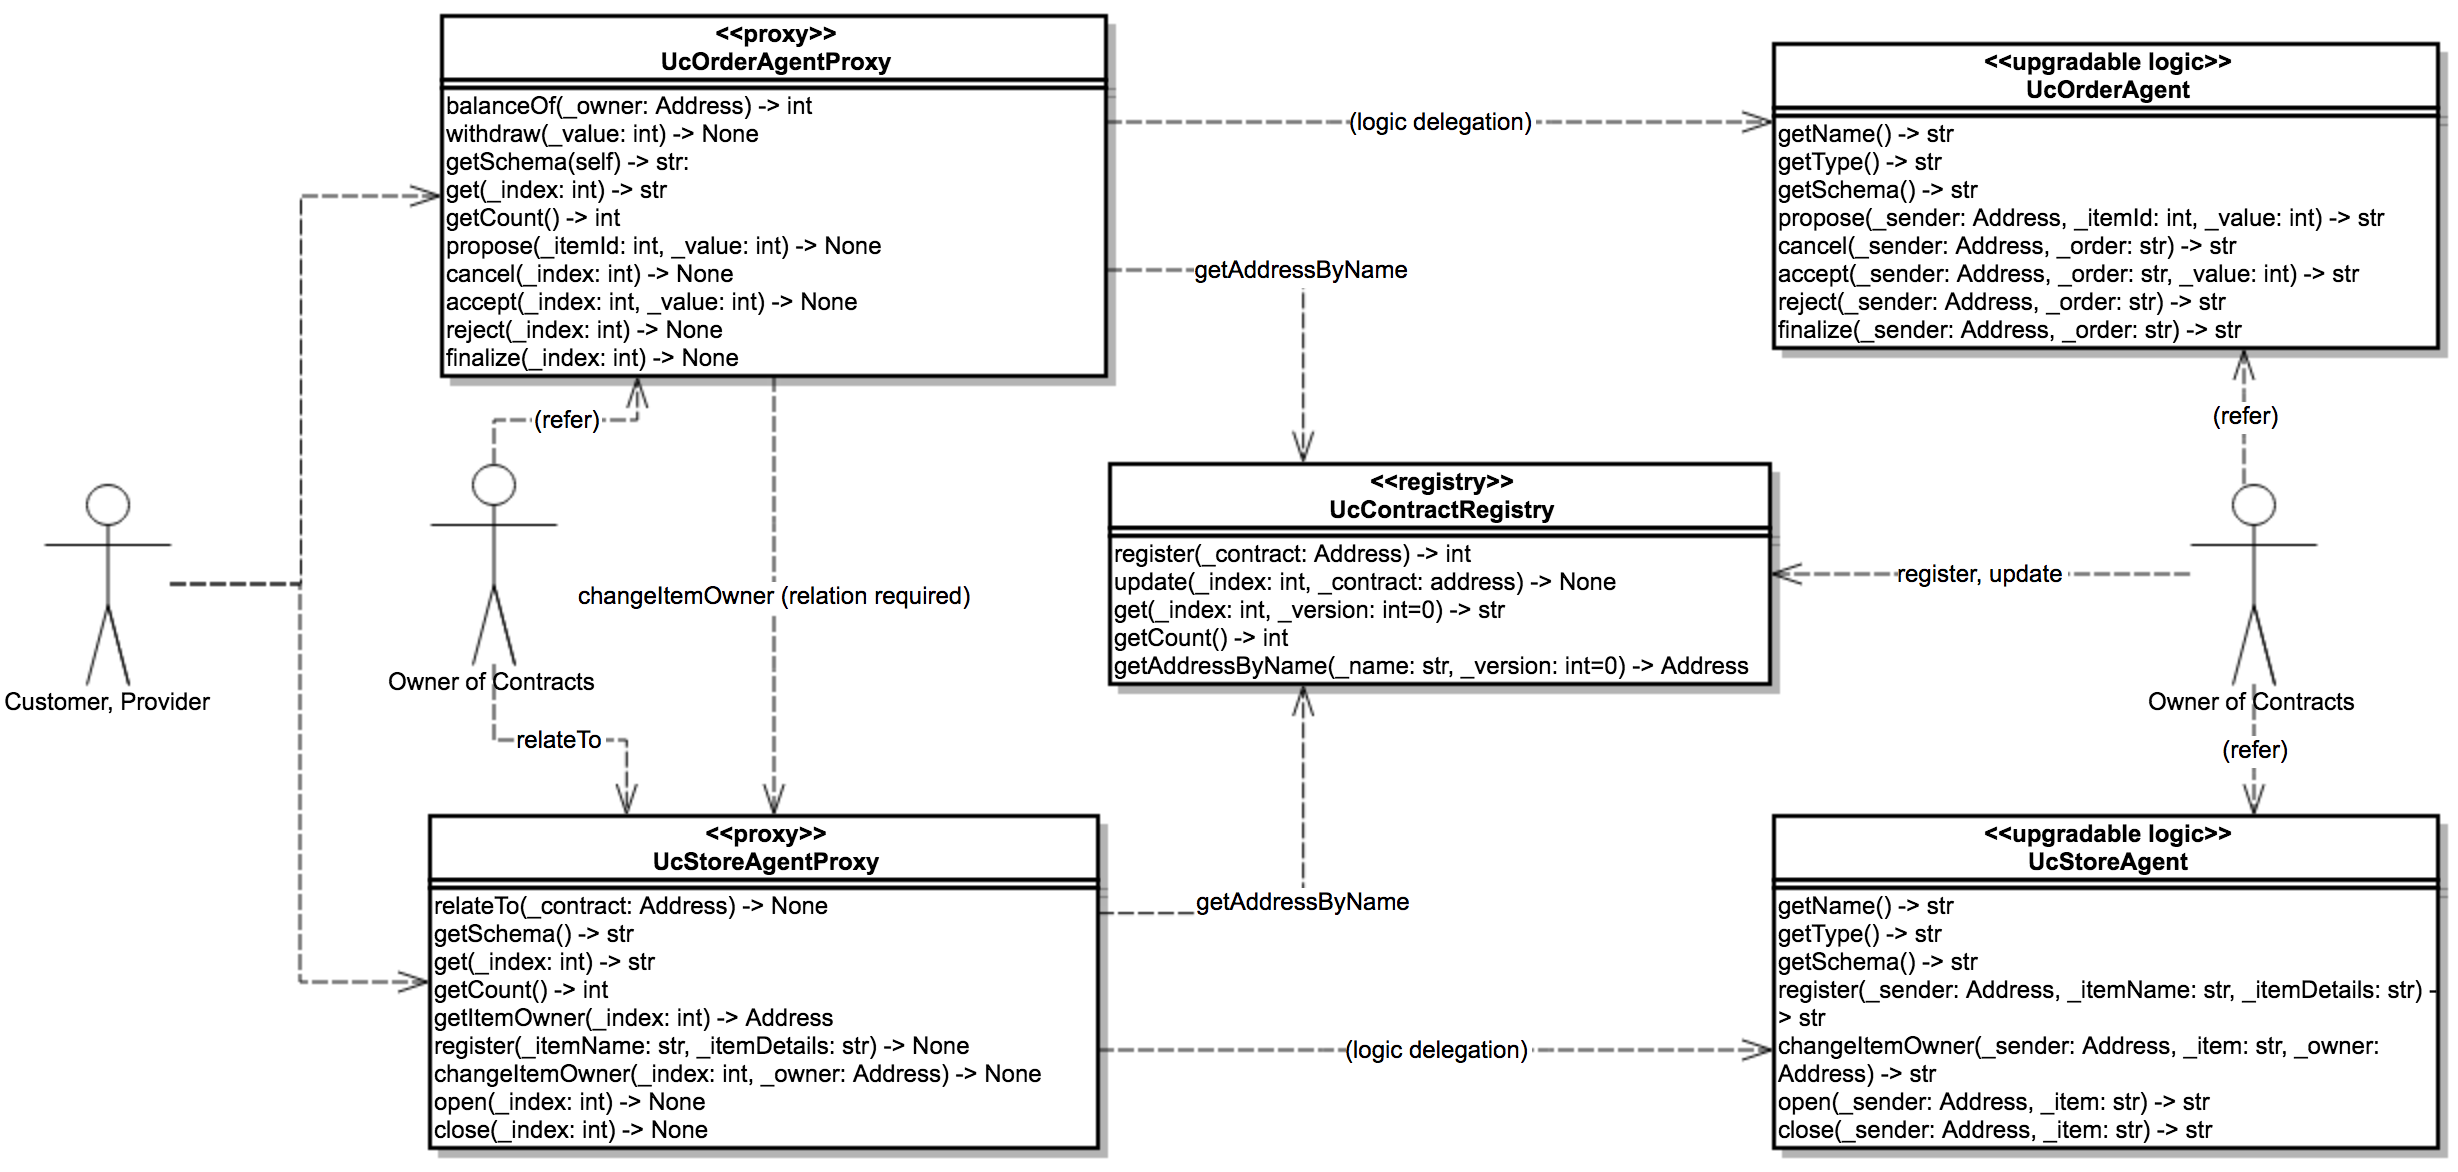
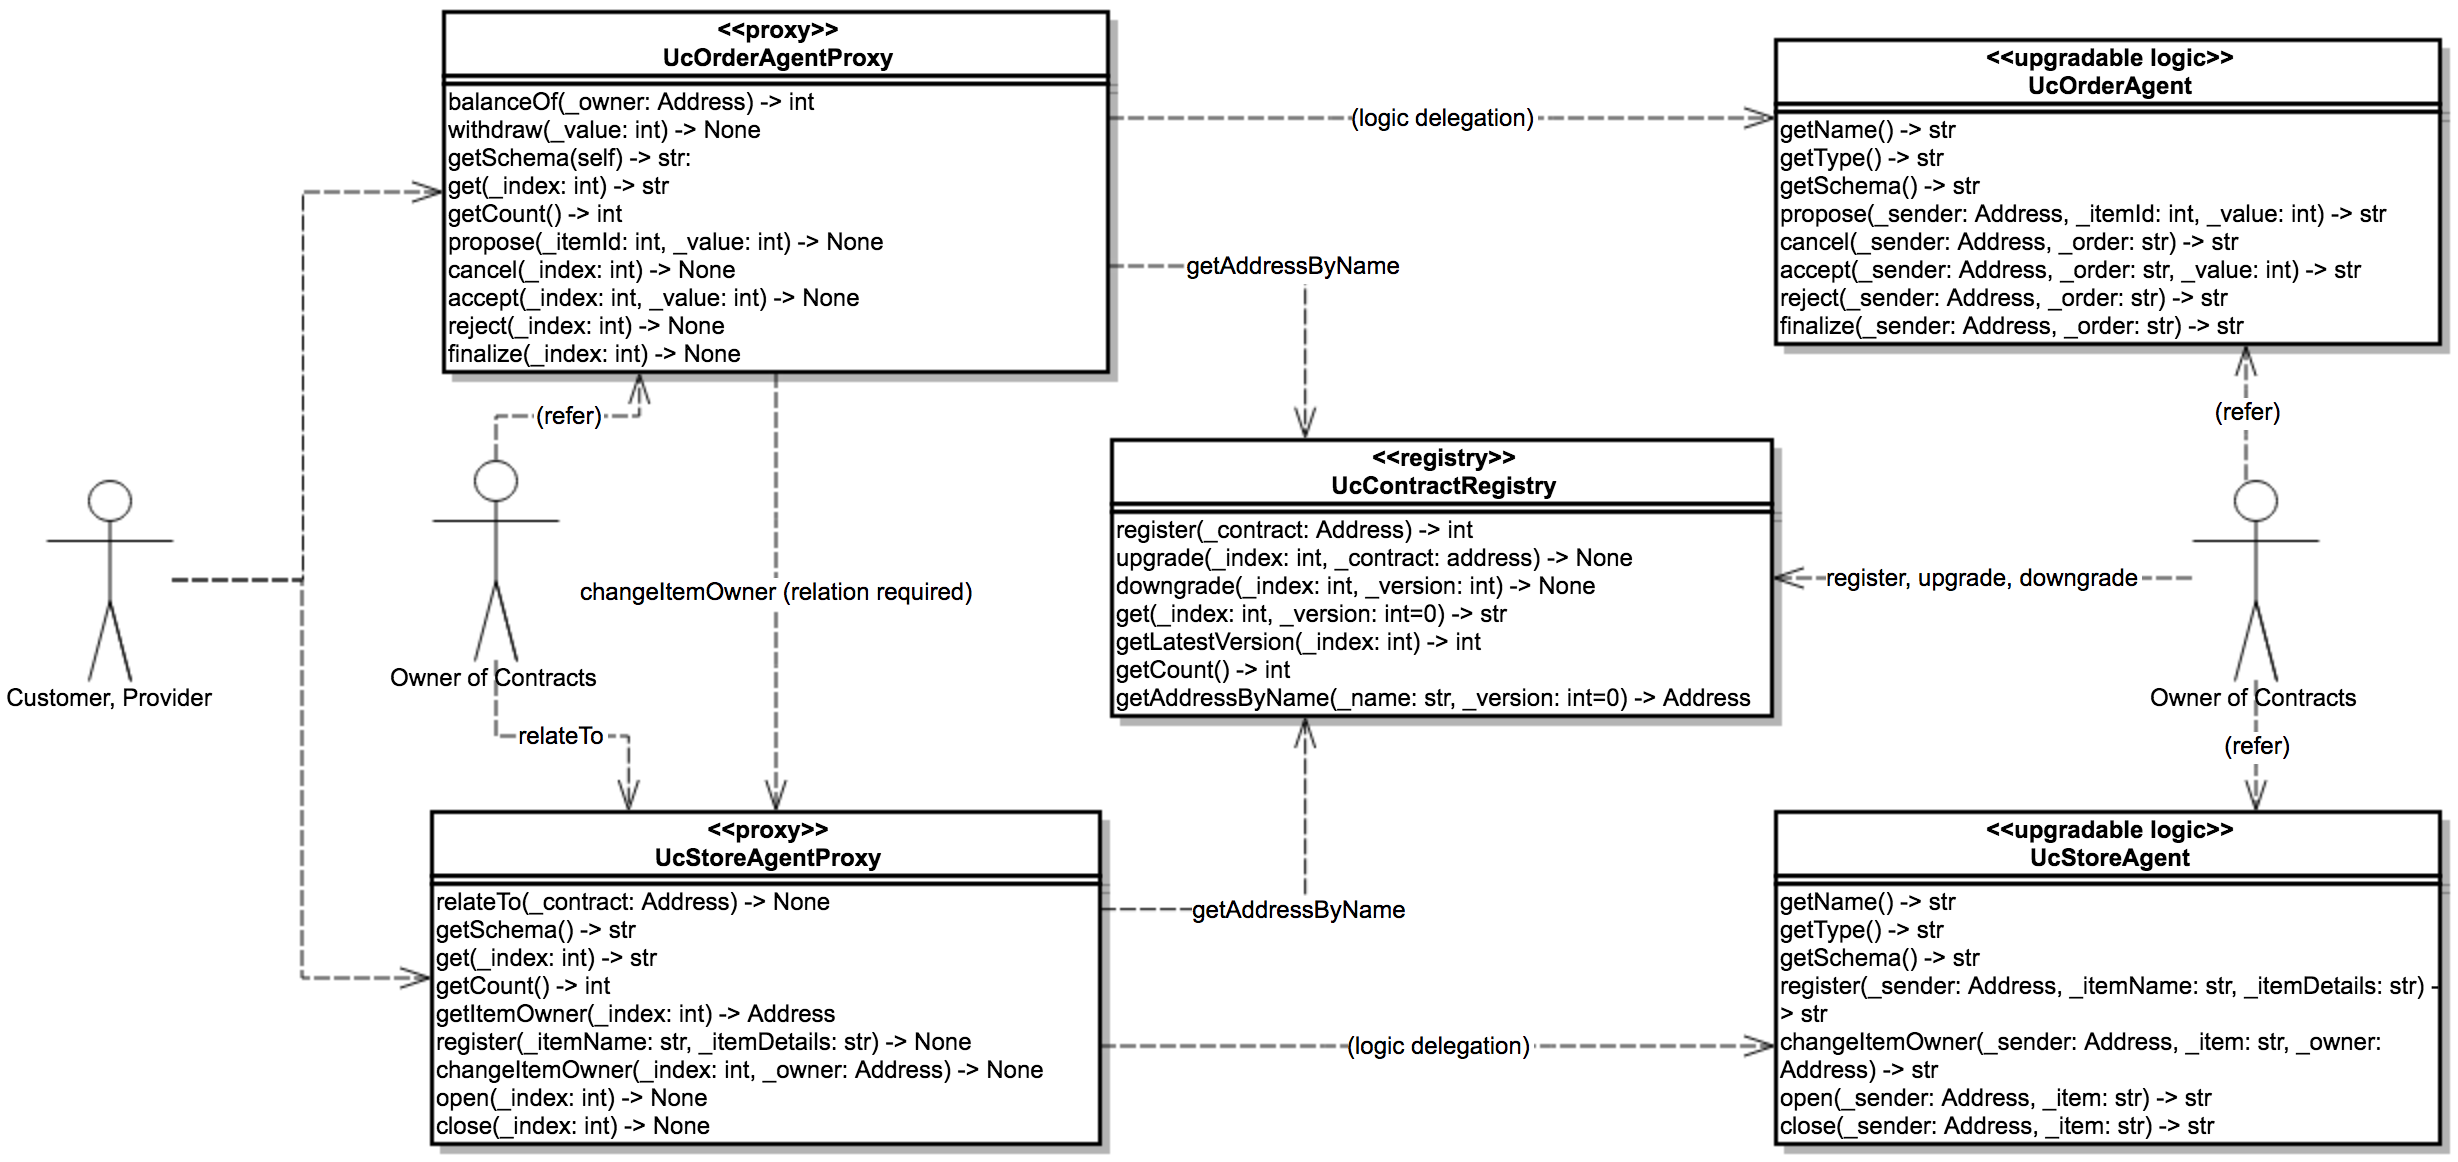
Contract Registry Improvement: both upgrading and downgrading a contract are provided (#3)

diff --git a/tests/test_config.py b/tests/test_config.py
@@ -4,7 +4,7 @@ TEST_KEYSTORE_TEST1 = 'keystore_test1'
 TEST_KEYSTORE_UC = 'keystore_uc'
 TEST_KEYSTORE_PROVIDER = 'keystore_provider'
 TEST_KEYSTORE_CUSTOMER = 'keystore_customer'
[5 lines of base64/hex data omitted]

diff --git a/uc_contract_registry/uc_contract_registry.py b/uc_contract_registry/uc_contract_registry.py
@@ -26,6 +26,9 @@ class UcContractRegistry(IconScoreBase):
     _SCHEMA_ADDRESS = 'address'
     _SCHEMA_UPDATED_AT = 'updatedAt'
 
+    _META_INDEX = 'index'
+    _META_LATEST_VERSION = 'latestVersion'
+
     _KEY_SEPARATOR = '::'
 
     @eventlog(indexed=1)
@@ -33,7 +36,11 @@ class UcContractRegistry(IconScoreBase):
         pass
 
     @eventlog(indexed=1)
-    def ContractUpdated(self, _index: int):
+    def ContractUpgraded(self, _index: int):
+        pass
+
+    @eventlog(indexed=1)
+    def ContractDowngraded(self, _index: int):
         pass
 
     def __init__(self, db: IconScoreDatabase) -> None:
@@ -53,7 +60,7 @@ class UcContractRegistry(IconScoreBase):
 
         self._contracts = ArrayDB(self._CONTRACTS, db, value_type=str)
         self._contractsByName = DictDB(self._CONTRACTS_BY_NAME, db, value_type=str)
-        self._contractsByNameVersion = DictDB(self._CONTRACTS_BY_NAME_VERSION, db, value_type=str)
+        self._contractsByNameVersion = DictDB(self._CONTRACTS_BY_NAME_VERSION, db, value_type=str, depth=2)
 
     def on_install(self) -> None:
         super().on_install()
@@ -84,11 +91,25 @@ class UcContractRegistry(IconScoreBase):
 
         contractObj = json.loads(self._contracts[_index])
         contractName = contractObj[self._SCHEMA_NAME]
-        contract = self._contractsByNameVersion[contractName + self._KEY_SEPARATOR + str(_version)]
+        contract = self._contractsByNameVersion[contractName][str(_version)]
         if not contract:
             self.revert('No such contract version')
 
         return contract
+
+    @external(readonly=True)
+    def getLatestVersion(self, _index: int) -> int:
+        if self._isOutOfRange(_index):
+            self.revert('No such contract')
+
+        contractObj = json.loads(self._contracts[_index])
+        contractName = contractObj[self._SCHEMA_NAME]
+        meta = self._contractsByName[contractName]
+        if not meta:
+            self.revert('No such contract')
+
+        metaObj = json.loads(meta)
+        return metaObj[self._META_LATEST_VERSION]
 
     @external(readonly=True)
     def getAddressByName(self, _contractName: str, _version: int=0) -> Address:
@@ -96,13 +117,15 @@ class UcContractRegistry(IconScoreBase):
             self.revert('Invalid argument')
 
         if _version == 0:
-            indexStr = self._contractsByName[_contractName]
-            if not indexStr:
+            meta = self._contractsByName[_contractName]
+            if not meta:
                 self.revert('No such contract')
 
-            contractObj = json.loads(self._contracts[int(indexStr)])
+            metaObj = json.loads(meta)
+            index = metaObj[self._META_INDEX]
+            contractObj = json.loads(self._contracts[index])
         else:
-            contract = self._contractsByNameVersion[_contractName + self._KEY_SEPARATOR + str(_version)]
+            contract = self._contractsByNameVersion[_contractName][str(_version)]
             if not contract:
                 self.revert('No such contract version')
 
@@ -145,13 +168,17 @@ class UcContractRegistry(IconScoreBase):
 
         index = len(self._contracts)
         self._contracts.put(json.dumps(contractObj))
-        self._contractsByName[contractName] = str(index)
 
-        self._contractsByNameVersion[contractName + self._KEY_SEPARATOR + str(version)] = self._contracts[index]
+        metaObj = {}
+        metaObj[self._META_INDEX] = index
+        metaObj[self._META_LATEST_VERSION] = version
+        self._contractsByName[contractName] = json.dumps(metaObj)
+
+        self._contractsByNameVersion[contractName][str(version)] = self._contracts[index]
         self.ContractRegistered(index)
 
     @external
-    def update(self, _contractAddress: Address) -> None:
+    def upgrade(self, _contractAddress: Address) -> None:
         if not self._isContractOwner():
             self.revert('No permission')
 
@@ -167,11 +194,12 @@ class UcContractRegistry(IconScoreBase):
         if not contractType:
             self.revert('Invalid contract type')
 
-        indexStr = self._contractsByName[contractName]
-        if not indexStr:
+        meta = self._contractsByName[contractName]
+        if not meta:
             self.revert('No such contract')
 
-        index = int(indexStr)
+        metaObj = json.loads(meta)
+        index = metaObj[self._META_INDEX]
         contractObj = json.loads(self._contracts[index])
         if contractObj[self._SCHEMA_TYPE] != contractType:
             self.revert('Mismatch contract type')
@@ -179,7 +207,8 @@ class UcContractRegistry(IconScoreBase):
         if contractObj[self._SCHEMA_ADDRESS] == str(_contractAddress):
             self.revert('Same contract address')
 
-        version = contractObj[self._SCHEMA_VERSION] + 1
+        version = metaObj[self._META_LATEST_VERSION] + 1
+        metaObj[self._META_LATEST_VERSION] = version
 
         contractObj = {}
         contractObj[self._SCHEMA_NAME] = contractName
@@ -189,5 +218,23 @@ class UcContractRegistry(IconScoreBase):
         contractObj[self._SCHEMA_UPDATED_AT] = self.now()
 
         self._contracts[index] = json.dumps(contractObj)
-        self._contractsByNameVersion[contractName + self._KEY_SEPARATOR + str(version)] = self._contracts[index]
-        self.ContractUpdated(index)
+        self._contractsByName[contractName] = json.dumps(metaObj)
+        self._contractsByNameVersion[contractName][str(version)] = self._contracts[index]
+        self.ContractUpgraded(index)
+
+    @external
+    def downgrade(self, _index: int, _version: int) -> None:
+        if self._isOutOfRange(_index):
+            self.revert('No such contract')
+
+        if _version < 0:
+            self.revert('Invalid argument')
+
+        contractObj = json.loads(self._contracts[_index])
+        contractName = contractObj[self._SCHEMA_NAME]
+        contract = self._contractsByNameVersion[contractName][str(_version)]
+        if not contract:
+            self.revert('No such contract version')
+
+        self._contracts[_index] = contract
+        self.ContractDowngraded(_index)

diff --git a/tests/test_uc_contract_registry.py b/tests/test_uc_contract_registry.py
@@ -99,14 +99,14 @@ class TestUcContractRegistry(TestUcBase):
 
         self.__class__._scoreAddrOfStoreAgent2 = self._deploy(installContentBytes, params)
 
-    def test_008_update(self):
+    def test_008_upgrade(self):
         transaction = CallTransactionBuilder()\
             .from_(self._walletOfUc.get_address())\
             .to(self._scoreAddrOfContractRegistry)\
             .step_limit(100000000)\
             .nid(3)\
             .nonce(100)\
-            .method('update')\
+            .method('upgrade')\
             .params({'_contractAddress': self._scoreAddrOfStoreAgent2})\
             .build()
 
@@ -132,7 +132,7 @@ class TestUcContractRegistry(TestUcBase):
         call = CallBuilder().from_(self._walletOfUc.get_address())\
             .to(self._scoreAddrOfContractRegistry)\
             .method('getAddressByName')\
-            .params({'_contractName': 'StoreAgent', '_version': '1'})\
+            .params({'_contractName': 'StoreAgent', '_version': '0x1'})\
             .build()
 
         callResult = self._sendCall(call)
@@ -151,12 +151,53 @@ class TestUcContractRegistry(TestUcBase):
         call = CallBuilder().from_(self._walletOfUc.get_address())\
             .to(self._scoreAddrOfContractRegistry)\
             .method('get')\
-            .params({'_index': '0x0', '_version': '1'})\
+            .params({'_index': '0x0', '_version': '0x1'})\
             .build()
 
         callResult = self._sendCall(call)
         self.assertEqual(json.loads(callResult)['address'], self._scoreAddrOfStoreAgent)
         self.assertEqual(json.loads(callResult)['version'], 1)
+
+    def test_009_downgrade(self):
+        call = CallBuilder().from_(self._walletOfUc.get_address())\
+            .to(self._scoreAddrOfContractRegistry)\
+            .method('getLatestVersion')\
+            .params({'_index': '0x0'})\
+            .build()
+
+        callResult = self._sendCall(call)
+        self.assertEqual(callResult, '0x2')
+
+        transaction = CallTransactionBuilder()\
+            .from_(self._walletOfUc.get_address())\
+            .to(self._scoreAddrOfContractRegistry)\
+            .step_limit(100000000)\
+            .nid(3)\
+            .nonce(100)\
+            .method('downgrade')\
+            .params({'_index': '0x0', '_version': '0x1'})\
+            .build()
+
+        txResult = self._sendTransaction(transaction, self._walletOfUc)
+
+        call = CallBuilder().from_(self._walletOfUc.get_address())\
+            .to(self._scoreAddrOfContractRegistry)\
+            .method('get')\
+            .params({'_index': '0x0'})\
+            .build()
+
+        callResult = self._sendCall(call)
+        self.assertEqual(json.loads(callResult)['address'], self._scoreAddrOfStoreAgent)
+        self.assertEqual(json.loads(callResult)['version'], 1)
+
+        call = CallBuilder().from_(self._walletOfUc.get_address())\
+            .to(self._scoreAddrOfContractRegistry)\
+            .method('getLatestVersion')\
+            .params({'_index': '0x0'})\
+            .build()
+
+        callResult = self._sendCall(call)
+        self.assertEqual(callResult, '0x2')
 
 
 if __name__ == '__main__':
